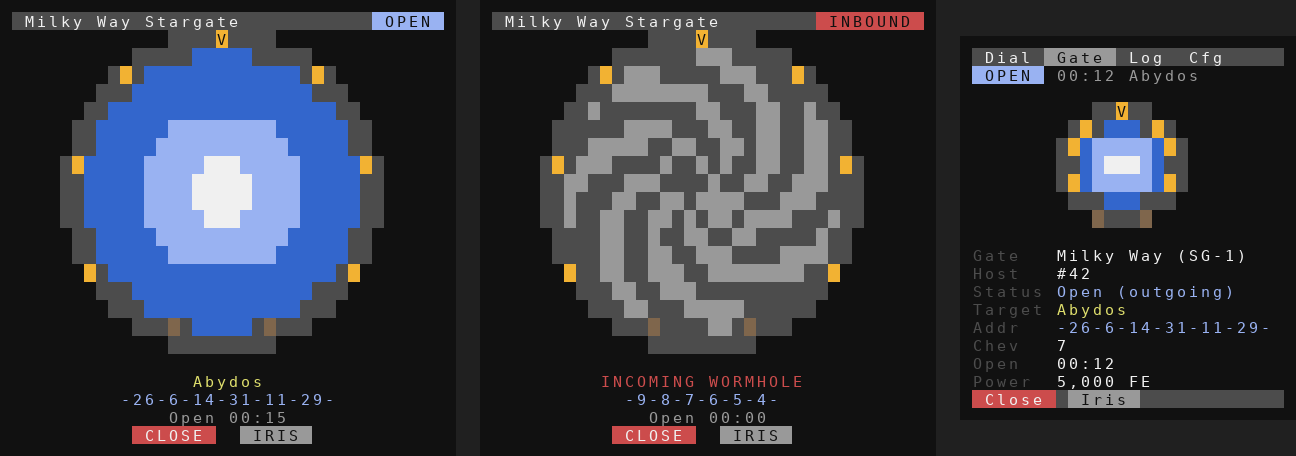
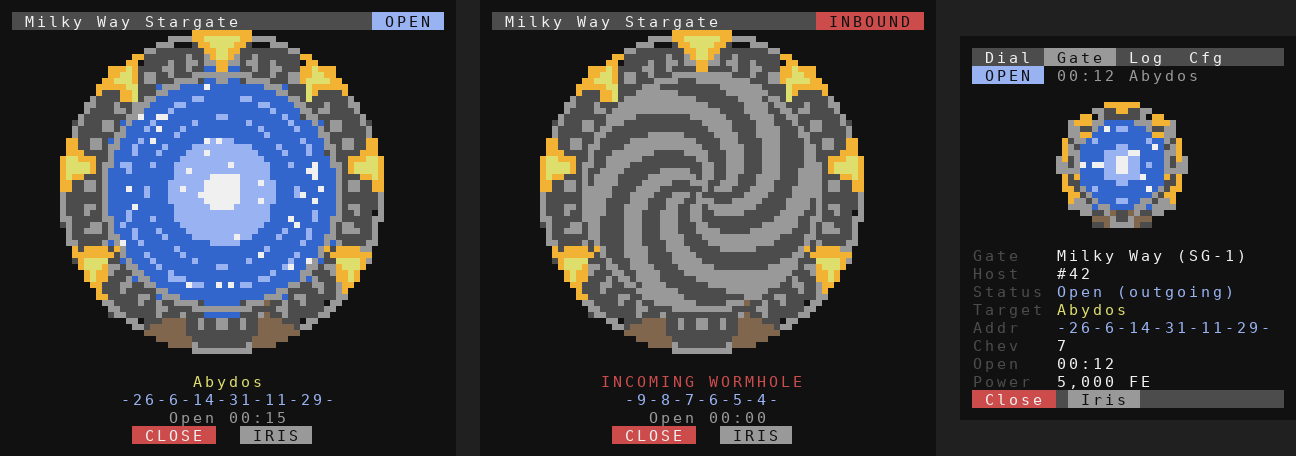
Restyle the gate display after the classic Stargate mods
Draw the gate with ComputerCraft's 2x3 drawing characters, giving six
square sub-pixels per cell, so the ring can show real detail:

- V-shaped chevrons with lit centres, lights on Universe and Tollan gates
- a symbol track that turns with the real ring (getRotationDegrees,
  polled every 0.2s while dialing) and a running light on Pegasus and
  Andromeda gates
- an event horizon with a bright core, moving ripples and glitter, and
  a short kawoosh when a wormhole opens
- an iris that closes from the rim inwards with the real iris progress

Add per-gate shapes and fuller colour styles, plus SGCraft, SG Network
and JSG styles based on the 1.12.2 era mods. The gate page and monitor
board animate at 4 fps only while something on screen moves.

Claude-Session: https://claude.ai/code/session_01YFRZ9x5PgWte3qSGCGtFLk

Changed region(s): [[0.4012, 0.0614, 0.679, 0.7982], [0.0309, 0.0614, 0.3086, 0.7982], [0.8025, 0.2149, 0.9259, 0.5219]]

diff --git a/StargateHybridLegacy/README.md b/StargateHybridLegacy/README.md
@@ -14,7 +14,7 @@ The layout borrows from the 1.12.2 era Stargate mods: an address book like a per
 - **Dialer page**: a searchable address book. Each entry shows the name, the address, a strip of glyph marks and a note such as the galaxy. A bar on the right is green when this gate can dial the address and red when a symbol is out of range. You can add, edit, delete and reorder entries.
 - **Gate page**: a ring display with live chevrons, the event horizon and the iris. It shows the status, target, local and remote address, open time, energy, iris state and the gate's last feedback. It has buttons to close the gate, toggle the iris and rescan.
 - **Log page**: chevrons, wormholes, travellers, iris hits and errors, with the in-game time.
-- **Config page**: Auto Close after someone steps through, a time limit for open wormholes, closing the iris on incoming wormholes and putting it back afterwards, the SGC 3-step chevron style, ring dialing speed, instant dialing, themes and the address access list.
+- **Config page**: Auto Close after someone steps through, a time limit for open wormholes, closing the iris on incoming wormholes and putting it back afterwards, the SGC 3-step chevron style, ring dialing speed, instant dialing, the gate style and the address access list.
 - **Monitor status board**: if a monitor is attached, it shows a large gate with the target and two touch buttons, **CLOSE** and **IRIS**.
 - **Pocket dialer**: run `sghl remote` on an Advanced Pocket Computer with a wireless or ender modem. It keeps its own address book and sends dial, close and iris requests to the dialing computer.
 
@@ -31,9 +31,26 @@ The layout borrows from the 1.12.2 era Stargate mods: an address book like a per
 
 The Advanced Crystal Interface also shows the local and connected address and unlocks the gate address whitelist and blacklist.
 
-The theme follows the gate automatically: SG-1 orange for Milky Way, Atlantis blue for Pegasus, Universe white, red for the Classic movie gate and light blue for Tollan. An extra Infinity palette can be picked on the Config page.
-
 The program was written against the Stargate Journey **0.6.54** sources for 1.20.1. Older 0.6.x builds that use `raiseChevron` and `lowerChevron` are handled as well.
+
+## Gate display
+
+![Gate styles](../imgs/StargateHybridLegacyStyles.png)
+
+*Top: Milky Way, Pegasus, Universe and Tollan in their own styles. Bottom: Classic, then a Milky Way gate in the SGCraft, SG Network and JSG styles.*
+
+The gate is drawn with ComputerCraft's 2×3 drawing characters, so each terminal cell holds six square sub-pixels.
+
+- **Chevrons**: nine V-shaped chevrons light up in the order the gate locks them, including 8- and 9-chevron addresses. The Universe and Tollan gates show lights instead.
+- **Symbol track**: on Milky Way, Classic and Universe gates the track turns with the real ring while it dials. On Pegasus and Andromeda gates a light runs round the symbols instead.
+- **Event horizon**: a bright core with moving ripples and glitter. The wormhole opens with a short kawoosh.
+- **Iris**: closes from the rim inwards as the real iris moves.
+
+The style follows the gate automatically: SG-1 orange for Milky Way, Atlantis blue for Pegasus, Universe white, red for the Classic movie gate and teal for Tollan. On the Config page, **Gate style** can also be set to Infinity or to one of three styles based on the 1.12.2 era mods:
+
+- **SGCraft**: red chevrons with yellow centres and a deep blue horizon
+- **SG Network**: a dark ring with cyan symbols and blue chevrons
+- **JSG**: a stone-grey ring with orange chevrons and a glittering horizon
 
 ## Requirements
 

diff --git a/README.md b/README.md
@@ -50,8 +50,9 @@
 **Written for Stargate Journey 0.6.54 on Minecraft 1.20.1**  
  - Address book dialer in the style of the 1.12.2 personal dialers, with search, glyph marks and reordering
  - Works with every gate type (Milky Way, Pegasus, Universe, Classic, Tollan, Andromeda) and every interface tier
- - Gate page with a live ring, chevrons, event horizon and iris
- - Configurator page: Auto Close, open time limit, automatic iris, SGC 3-step dialing, themes, address access list
+ - Detailed gate display: V-shaped chevrons, a symbol track that turns with the ring, a shimmering event horizon with a kawoosh, and an iris that closes from the rim
+ - Gate styles for every gate type, plus styles based on SGCraft, Stargate Network and JSG
+ - Configurator page: Auto Close, open time limit, automatic iris, SGC 3-step dialing, address access list
  - Optional monitor status board and pocket computer dialer over rednet
 
 ![Stargate Hybrid Legacy image](./imgs/StargateHybridLegacy.png)
